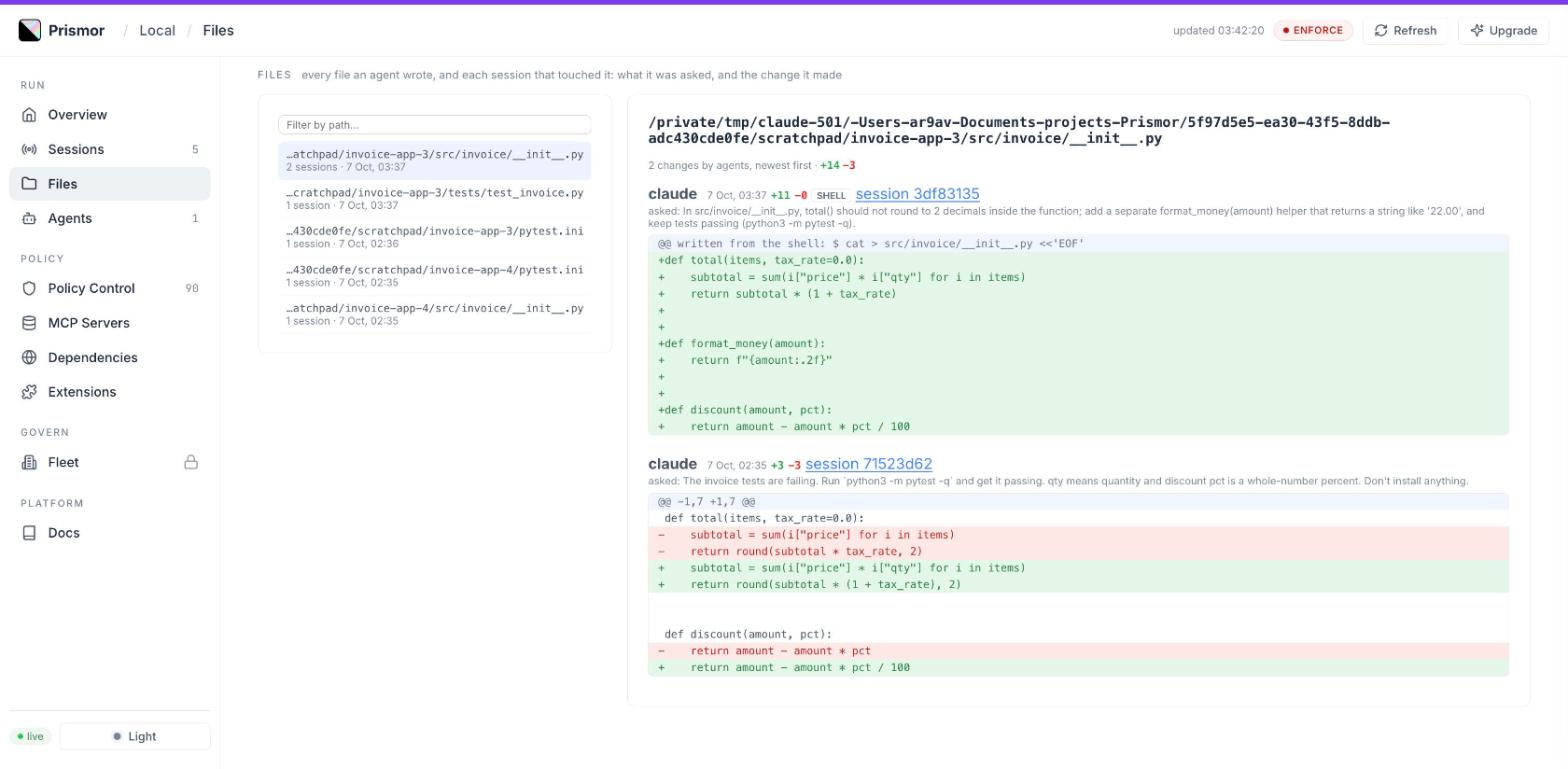
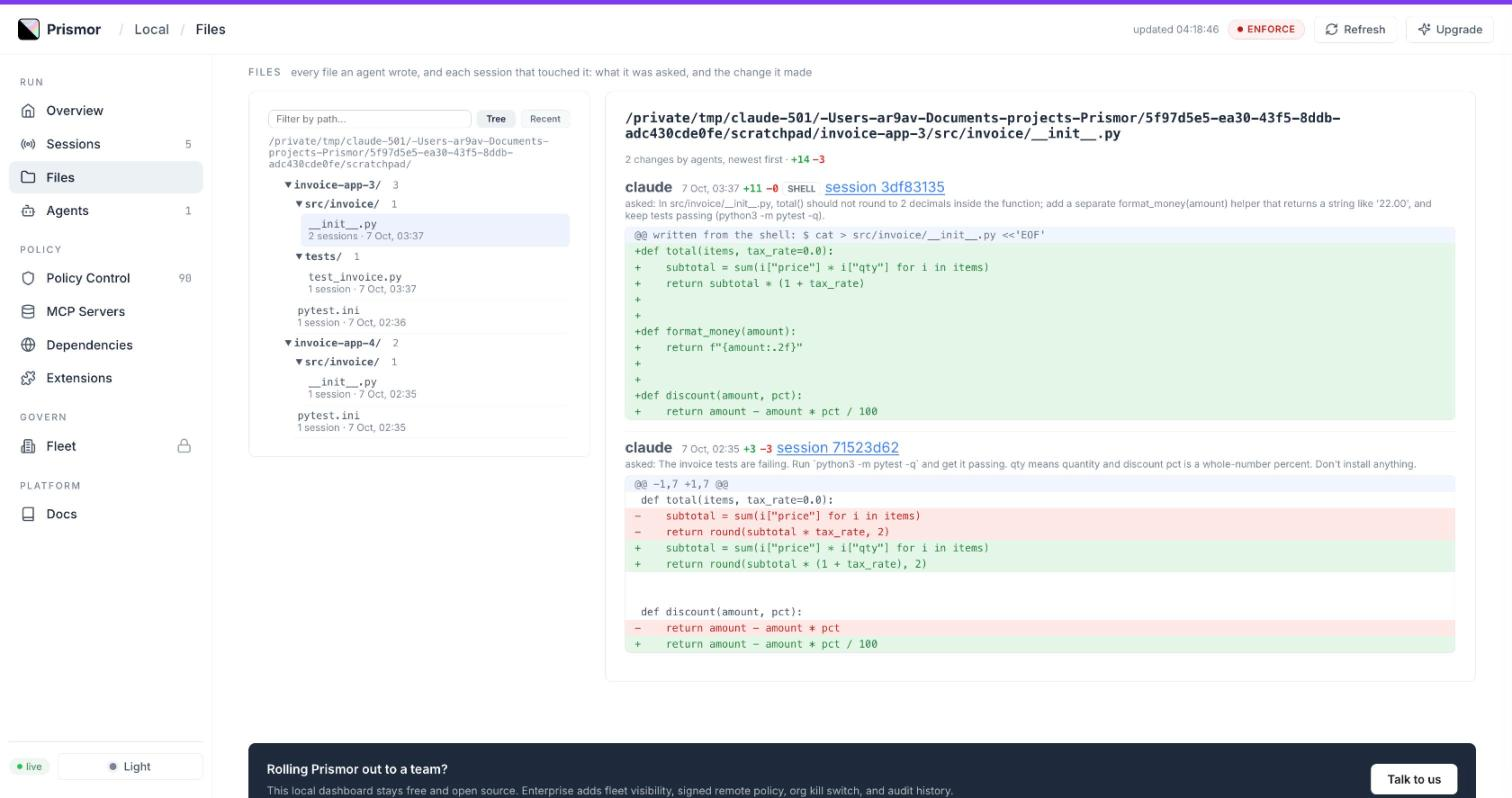
feat(dashboard): Files page folder tree
Files are grouped under their common folder, one collapsible node per
directory with its file count; a folder holding only one subfolder merges
into it (src/invoice/). A Tree/Recent toggle keeps the newest-first list.
Built in the page from the paths /api/files already returns.

diff --git a/prismor/runtime/dashboard.html b/prismor/runtime/dashboard.html
@@ -1186,6 +1186,11 @@ body:has(#page-docs.page.active) .prismor-cta{display:none}
   .file-item { padding:7px 8px; border-radius:6px; cursor:pointer; border-bottom:1px solid var(--gray-100); }
   .file-item:hover { background:var(--gray-50); }
   .file-item.active { background:rgba(59,130,246,.10); }
+  .ftree-dir { margin-left:12px; }
+  .ftree-dir > summary { cursor:pointer; padding:4px 6px; border-radius:6px; font-family:var(--mono,ui-monospace,monospace); font-size:11.5px; font-weight:600; }
+  .ftree-dir > summary:hover { background:var(--gray-50); }
+  .ftree-root { font-family:var(--mono,ui-monospace,monospace); font-size:11px; color:var(--gray-400); overflow-wrap:anywhere; margin:2px 0 6px; }
+  .ftree .file-item { margin-left:12px; padding:5px 8px; }
   .file-item .dev-mono { direction:rtl; text-align:left; overflow:hidden; text-overflow:ellipsis; white-space:nowrap; }
   .dev-add { color:#16a34a; font-weight:600; font-family:var(--mono,ui-monospace,monospace); font-size:11.5px; }
   .dev-del { color:#dc2626; font-weight:600; font-family:var(--mono,ui-monospace,monospace); font-size:11.5px; }
@@ -2371,7 +2376,11 @@ body:has(#page-docs.page.active) .prismor-cta{display:none}
   </div>
   <div class="ext-layout files-layout">
     <div class="card">
-      <input id="filesSearch" class="finput" type="search" spellcheck="false" autocomplete="off" placeholder="Filter by path…" style="width:100%;box-sizing:border-box;margin-bottom:8px" />
+      <div style="display:flex;gap:6px;margin-bottom:8px">
+        <input id="filesSearch" class="finput" type="search" spellcheck="false" autocomplete="off" placeholder="Filter by path…" style="flex:1;min-width:0" />
+        <button class="fbtn active" data-fview="tree" onclick="setFilesView('tree')">Tree</button>
+        <button class="fbtn" data-fview="recent" onclick="setFilesView('recent')">Recent</button>
+      </div>
       <div id="filesList" class="dev-list"><div class="empty">Loading…</div></div>
     </div>
     <div class="card" id="fileDetail"><div class="empty">Select a file to see every session that changed it.</div></div>
@@ -3812,15 +3821,48 @@ async function loadSessionDev(sessionId) {
   el.innerHTML = h; el.hidden = false;
 }
 let _filesSel = '', _filesTimer = null;
+let _filesView = 'tree', _filesData = [];
+function setFilesView(v) {
+  _filesView = v;
+  document.querySelectorAll('[data-fview]').forEach(b => b.classList.toggle('active', b.dataset.fview === v));
+  renderFiles();
+}
 async function loadFiles() {
   const el = document.getElementById('filesList'), q = document.getElementById('filesSearch').value.trim();
   try {
-    const d = await apiFetch('/api/files' + (q ? '?q=' + encodeURIComponent(q) : ''), {timeoutMs: 20000});
-    const fs = d.files || [];
-    el.innerHTML = fs.length ? fs.map(f => '<div class="file-item' + (f.path === _filesSel ? ' active' : '') + '" data-path="' + safeAttr(f.path) + '" onclick="openFile(this.dataset.path)">' +
-      '<div class="dev-mono" title="' + safeAttr(f.path) + '">&lrm;' + safe(f.path) + '</div><div class="dev-quiet" style="margin:0">' + f.sessions + ' session' + (f.sessions === 1 ? '' : 's') + ' · ' + safe(extWhen(f.last)) + '</div></div>').join('')
-      : '<div class="empty">' + (q ? 'No agent-written file matches.' : 'No agent has written a file yet.') + '</div>';
+    _filesData = (await apiFetch('/api/files' + (q ? '?q=' + encodeURIComponent(q) : ''), {timeoutMs: 20000})).files || [];
+    if (!_filesData.length) { el.innerHTML = '<div class="empty">' + (q ? 'No agent-written file matches.' : 'No agent has written a file yet.') + '</div>'; return; }
+    renderFiles();
   } catch (e) { el.innerHTML = '<div class="empty" style="color:#b91c1c">' + safe(e.message) + '</div>'; }
+}
+function fileRow(f, label) {
+  return '<div class="file-item' + (f.path === _filesSel ? ' active' : '') + '" data-path="' + safeAttr(f.path) + '" onclick="openFile(this.dataset.path)">' +
+    '<div class="dev-mono" title="' + safeAttr(f.path) + '">&lrm;' + safe(label) + '</div><div class="dev-quiet" style="margin:0">' +
+    f.sessions + ' session' + (f.sessions === 1 ? '' : 's') + ' · ' + safe(extWhen(f.last)) + '</div></div>';
+}
+function renderFiles() {
+  const el = document.getElementById('filesList'), fs = _filesData;
+  if (!fs.length) return;
+  if (_filesView === 'recent') { el.innerHTML = fs.map(f => fileRow(f, f.path)).join(''); return; }
+  // Folder tree under the paths' common directory; a folder with one subfolder and no files merges into it.
+  const parts = fs.map(f => f.path.split('/'));
+  let common = parts[0].length - 1;
+  parts.forEach(p => { let i = 0; while (i < common && i < p.length - 1 && p[i] === parts[0][i]) i++; common = i; });
+  const root = {dirs: {}, files: []};
+  fs.forEach((f, i) => {
+    let node = root;
+    parts[i].slice(common, -1).forEach(d => { node = node.dirs[d] = node.dirs[d] || {dirs: {}, files: []}; });
+    node.files.push(f);
+  });
+  const count = n => n.files.length + Object.values(n.dirs).reduce((a, c) => a + count(c), 0);
+  const open = fs.length <= 40 || document.getElementById('filesSearch').value.trim();
+  const draw = node => Object.keys(node.dirs).sort().map(name => {
+    let sub = node.dirs[name], label = name;
+    while (!sub.files.length && Object.keys(sub.dirs).length === 1) { const k = Object.keys(sub.dirs)[0]; label += '/' + k; sub = sub.dirs[k]; }
+    return '<details class="ftree-dir"' + (open || sub.files.some(f => f.path === _filesSel) ? ' open' : '') + '><summary>' + safe(label) +
+      '/ <span class="dev-quiet">' + count(sub) + '</span></summary>' + draw(sub) + '</details>';
+  }).join('') + node.files.slice().sort((a, b) => a.path.localeCompare(b.path)).map(f => fileRow(f, f.path.split('/').pop())).join('');
+  el.innerHTML = '<div class="ftree-root" title="common folder">' + safe(parts[0].slice(0, common).join('/') + '/') + '</div><div class="ftree">' + draw(root) + '</div>';
 }
 document.getElementById('filesSearch').addEventListener('input', () => { clearTimeout(_filesTimer); _filesTimer = setTimeout(loadFiles, 250); });
 async function openFile(path) {
